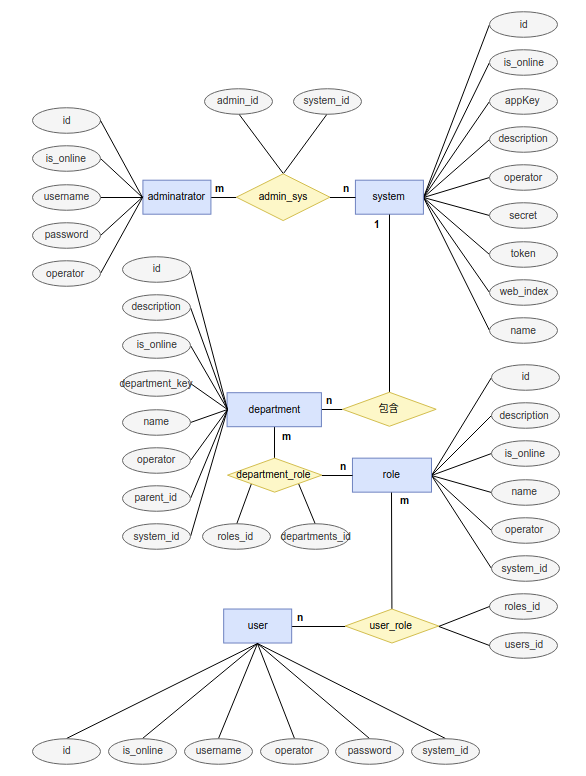
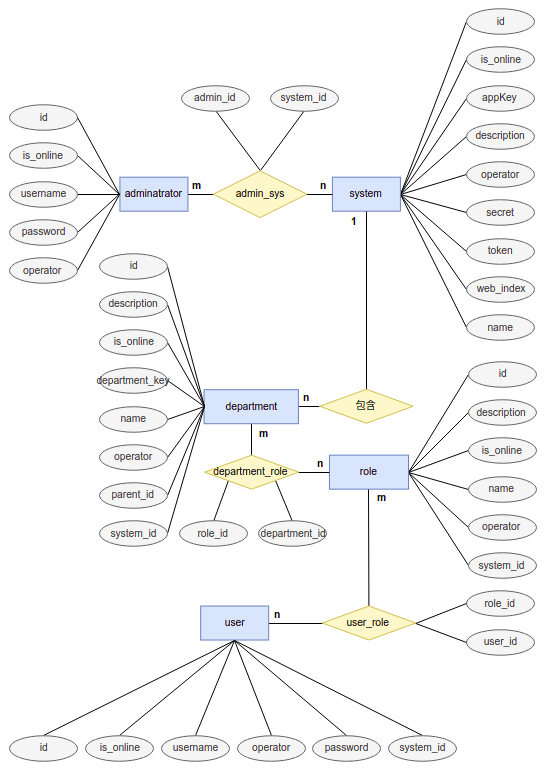
add mysql table model

diff --git a/auth-manage/src/database/models/system.ts b/auth-manage/src/database/models/system.ts
@@ -1,3 +1,5 @@
+import { Model, DataTypes } from 'sequelize/types'
+import { sequelize        } from '../data-access'
 export interface SystemObj {
   id?         : number  // 系统id
   appKey?     : string  // 系统appkey
@@ -11,3 +13,70 @@ export interface SystemObj {
   createAt?   : Date    // 创建时间
   updateAt?   : Date    // 更新时间
 }
+
+
+
+export class System extends Model {}
+
+System.init({
+  id: {
+    type: DataTypes.INTEGER.UNSIGNED,
+    primaryKey: true,
+    autoIncrement: true,
+  },
+  createAt: {
+    type: DataTypes.DATE,
+    allowNull: false,
+    field: 'create_at',
+  },
+  updateAt: {
+    type     : DataTypes.DATE,
+    allowNull: false,
+    field    : 'update_at',
+  },
+  description: {
+    type: DataTypes.STRING,
+    allowNull: true,
+  },
+  isOnline: {
+    type: DataTypes.INTEGER.UNSIGNED,
+    allowNull: false,
+    field: 'is_online',
+  },
+  appKey: {
+    type: DataTypes.STRING(255),
+    allowNull: false,
+    field: 'app_key',
+  },
+  name: {
+    type: DataTypes.STRING(255),
+    allowNull: false,
+  },
+  operator: {
+    type: DataTypes.STRING(255),
+    allowNull: false,
+  },
+  secret: {
+    type: DataTypes.STRING(255),
+    allowNull: false,
+    field: 'secret',
+  },
+  token: {
+    type: DataTypes.STRING(255),
+    allowNull: false,
+  },
+  webIndex: {
+    type: DataTypes.STRING(255),
+    allowNull: false,
+    field: 'web_index',
+  },
+}, {
+  sequelize: sequelize,
+  timestamps: false,
+  tableName: 'system',
+})
+
+System.addHook('beforeCreate', (system: any) => {
+  system.createAt = new Date()
+  system.updateAt = system.createAt
+})

diff --git a/auth-manage/src/database/models/department.ts b/auth-manage/src/database/models/department.ts
@@ -1,5 +1,5 @@
 import { Model, DataTypes } from 'sequelize/types'
-import { sequelize } from '../data-access'
+import { sequelize        } from '../data-access'
 
 export interface DepartmentObj {
   id?           : number,   // 部门ID
@@ -21,7 +21,56 @@ Department.init({
     type: DataTypes.INTEGER.UNSIGNED,
     primaryKey: true,
     autoIncrement: true,
-  }
+  },
+  createAt: {
+    type: DataTypes.DATE,
+    allowNull: false,
+    field: 'create_at',
+  },
+  updateAt: {
+    type     : DataTypes.DATE,
+    allowNull: false,
+    field    : 'update_at',
+  },
+  description: {
+    type: DataTypes.STRING,
+    allowNull: true,
+  },
+  isOnline: {
+    type: DataTypes.INTEGER.UNSIGNED,
+    allowNull: false,
+    field: 'is_online',
+  },
+  departmentKey: {
+    type: DataTypes.STRING(255),
+    allowNull: false,
+    field: 'department_key',
+  },
+  name: {
+    type: DataTypes.STRING(255),
+    allowNull: false,
+  },
+  operator: {
+    type: DataTypes.STRING(255),
+    allowNull: false,
+  },
+  parentId: {
+    type: DataTypes.INTEGER.UNSIGNED,
+    allowNull: false,
+    field: 'parent_id',
+  },
+  systemId: {
+    type: DataTypes.INTEGER.UNSIGNED,
+    allowNull: false,
+    field: 'system_id',
+  },
 }, {
-  sequelize: sequelize
+  sequelize: sequelize,
+  timestamps: false,
+  tableName: 'department',
+})
+
+Department.addHook('beforeCreate', (department: any) => {
+  department.createAt = new Date()
+  department.updateAt = department.createAt
 })

diff --git a/auth-manage/src/database/models/user.ts b/auth-manage/src/database/models/user.ts
@@ -1,5 +1,8 @@
+import { Model, DataTypes } from 'sequelize'
+import { sequelize        } from '../data-access'
+
 export interface User {
-  id      : number  // y用户id
+  id      : number  // 用户id
   username: string  // 用户名
   password: string  // 密码
   isOnline: string  // 是否在线
@@ -8,3 +11,54 @@ export interface User {
   createAt: Date    // 创建时间
   updateAt: Date    // 更新时间
 }
+
+export class User extends Model {}
+
+User.init({
+  id: {
+    type: DataTypes.INTEGER.UNSIGNED,
+    primaryKey: true,
+    autoIncrement: true,
+  },
+  createAt: {
+    type: DataTypes.DATE,
+    allowNull: false,
+    field: 'create_at',
+  },
+  updateAt: {
+    type     : DataTypes.DATE,
+    allowNull: false,
+    field    : 'update_at',
+  },
+  systemId: {
+    type: DataTypes.INTEGER.UNSIGNED,
+    allowNull: false,
+    field: 'system_id',
+  },
+  isOnline: {
+    type: DataTypes.INTEGER.UNSIGNED,
+    allowNull: false,
+    field: 'is_online',
+  },
+  password: {
+    type: DataTypes.STRING(255),
+    allowNull: false,
+  },
+  username: {
+    type: DataTypes.STRING(255),
+    allowNull: false,
+  },
+  operator: {
+    type: DataTypes.STRING(255),
+    allowNull: false,
+  },
+}, {
+  sequelize: sequelize,
+  timestamps: false,
+  tableName: 'user',
+})
+
+User.addHook('beforeCreate', (user: any) => {
+  user.createAt = new Date()
+  user.updateAt = user.createAt
+})

diff --git a/auth-manage/src/database/models/role.ts b/auth-manage/src/database/models/role.ts
@@ -1,3 +1,6 @@
+import { Model, DataTypes } from 'sequelize'
+import { sequelize        } from '../data-access'
+
 export interface RoleObj {
   id?         : number  // 角色id
   createAt?   : Date    // 创建时间
@@ -9,3 +12,53 @@ export interface RoleObj {
   systemId?   : number  // 系统id
 }
 
+export class Role extends Model {}
+
+Role.init({
+  id: {
+    type: DataTypes.INTEGER.UNSIGNED,
+    primaryKey: true,
+    autoIncrement: true,
+  },
+  createAt: {
+    type: DataTypes.DATE,
+    field: 'create_at',
+    allowNull: false,
+  },
+  updateAt: {
+    type: DataTypes.DATE,
+    field: 'updateAt_at',
+    allowNull: false,
+  },
+  description: {
+    type: DataTypes.STRING,
+    allowNull: true,
+  },
+  isOnline: {
+    type: DataTypes.INTEGER.UNSIGNED,
+    allowNull: false,
+    field: 'is_online',
+  },
+  name: {
+    type: DataTypes.STRING(255),
+    allowNull: false,
+  },
+  operator: {
+    type: DataTypes.STRING(255),
+    allowNull: false,
+  },
+  systemId: {
+    type: DataTypes.INTEGER.UNSIGNED,
+    allowNull: false,
+    field: 'system_id',
+  }
+}, {
+  sequelize: sequelize,
+  timestamps: false,
+  tableName: 'role',
+})
+
+Role.addHook('beforeCreate', (role: any) => {
+  role.createAt = new Date()
+  role.updateAt = role.createAt
+})

diff --git a/auth-manage/src/database/models/adminatrator.ts b/auth-manage/src/database/models/adminatrator.ts
@@ -1,20 +1,25 @@
 import { Model, DataTypes } from 'sequelize'
-import { sequelize } from '../data-access'
+import { sequelize        } from '../data-access'
 
 export interface AdminatratorObj {
-  id?      : number,
-  isOnline?: number,
-  username?: string,
-  password?: string,
-  operator?: string,
-  createAt?: Date,
-  updateAt?: Date,
+  id?      : number,   // 管理员id
+  isOnline?: number,   // 是否在线
+  username?: string,   // 用户名
+  password?: string,   // 密码
+  operator?: string,   // 操作人员
+  groupId? : number,   // 系统所属的组, 0-所有,其他为特定组
+  createAt?: Date,     // 创建时间
+  updateAt?: Date,     // 更改时间
 }
 export class Adminatrator extends Model {}
 Adminatrator.init({
   id: {
     type: DataTypes.INTEGER.UNSIGNED,
     autoIncrement: true,
+    primaryKey: true,
+  },
+  groupId: {
+    type: DataTypes.INTEGER.UNSIGNED,
     primaryKey: true,
   },
   isOnline: {

diff --git a/auth-manage/src/database/models/department-role.ts b/auth-manage/src/database/models/department-role.ts
@@ -1,4 +1,26 @@
+import { Model, DataTypes } from 'sequelize'
+import { sequelize        } from '../data-access'
+
 export  interface DepartMentRoleObj {
-  rolesId?: number // 角色id
-  departmentsId?: number // 部分id
+  roleId?      : number  // 角色id
+  departmentId?: number  // 部分id
 }
+
+export class DepartmentRole extends Model {}
+
+DepartmentRole.init({
+  roleId: {
+    type: DataTypes.INTEGER.UNSIGNED,
+    field: 'role_id',
+    primaryKey: true,
+  },
+  departmentId: {
+    type: DataTypes.INTEGER.UNSIGNED,
+    field: 'department_id',
+    primaryKey: true,
+  }
+}, {
+  sequelize: sequelize,
+  timestamps: false,
+  tableName: 'department_role'
+})

diff --git a/auth-manage/src/database/models/admin-sys.ts b/auth-manage/src/database/models/admin-sys.ts
@@ -1,0 +1,26 @@
+import { Model, DataTypes } from 'sequelize';
+import { sequelize        } from '../data-access';
+
+export interface AdminSysObj {
+  adminId?  : number,   // 管理员id
+  system_id?: number,   // 系统id
+}
+
+export class AdminSys extends Model {}
+
+AdminSys.init({
+  adminId: {
+    type: DataTypes.INTEGER.UNSIGNED,
+    primaryKey: true,
+    field: 'admin_id',
+  },
+  systemId: {
+    type: DataTypes.INTEGER.UNSIGNED,
+    primaryKey: true,
+    field: 'system_id',
+  }
+}, {
+  sequelize: sequelize,
+  tableName: 'admin_sys',
+  timestamps: false,
+})

diff --git a/auth-manage/src/database/models/user-role.ts b/auth-manage/src/database/models/user-role.ts
@@ -1,4 +1,26 @@
+import { Model, DataTypes } from 'sequelize'
+import { sequelize        } from '../data-access'
+
 export interface UserRoleObj {
   userId?: number  // 用户id
   roleId?: number  // 角色id
 }
+
+export class DepartmentRole extends Model {}
+
+DepartmentRole.init({
+  userId: {
+    type: DataTypes.INTEGER.UNSIGNED,
+    field: 'user_id',
+    primaryKey: true,
+  },
+  roleId: {
+    type: DataTypes.INTEGER.UNSIGNED,
+    field: 'role_id',
+    primaryKey: true,
+  }
+}, {
+  sequelize: sequelize,
+  timestamps: false,
+  tableName: 'user_role'
+})
